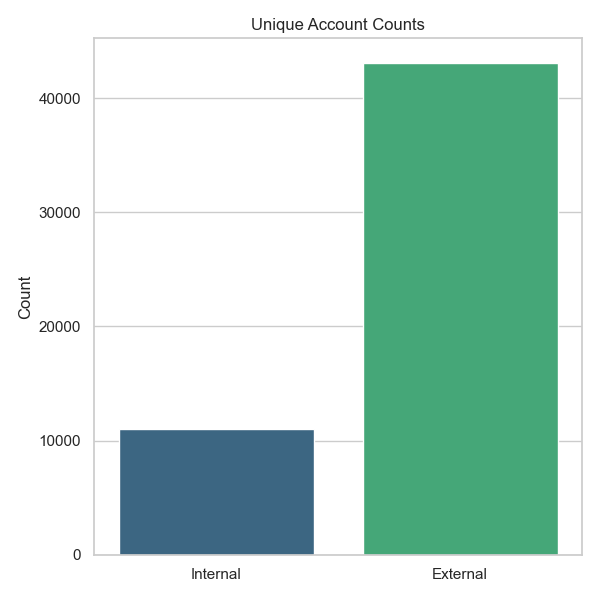
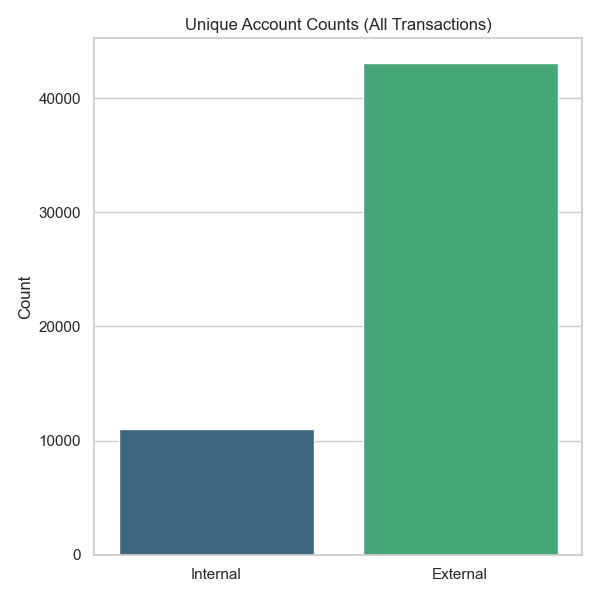
added kaggle task

Changed region(s): [[0.3, 0.03, 0.81, 0.06]]

diff --git a/plot.py b/plot.py
@@ -35,7 +35,8 @@ def plot_fraud_action_difference(transactions_df, fraud_df, output_path):
     fraud_df["AccountID"] = fraud_df["AccountID"].astype(str)
     merged_df = pd.merge(transactions_df, fraud_df, on="AccountID", how="inner")
     plt.figure(figsize=(10, 6))
-    sns.countplot(data=merged_df, x="Action", hue="Fraudster", order=merged_df["Action"].value_counts().index)
+    sns.countplot(data=merged_df, x="Action", hue="Fraudster", 
+                  order=merged_df["Action"].value_counts().index)
     plt.title("Transaction Action Counts by Fraudulent Status")
     plt.xlabel("Action")
     plt.ylabel("Count")
@@ -79,7 +80,7 @@ def plot_unique_accounts(transactions_df, output_path):
     external_count = transactions_df["External"].dropna().nunique()
     plt.figure(figsize=(6, 6))
     sns.barplot(x=["Internal", "External"], y=[internal_count, external_count], palette="viridis")
-    plt.title("Unique Account Counts")
+    plt.title("Unique Account Counts (All Transactions)")
     plt.ylabel("Count")
     plt.tight_layout()
     plt.savefig(output_path)
@@ -92,7 +93,7 @@ def plot_overdrafts(transactions_df, output_path):
     values = [counts.get(0, 0), counts.get(1, 0)]
     plt.figure(figsize=(6, 6))
     sns.barplot(x=labels, y=values, palette="magma")
-    plt.title("Overdraft Counts")
+    plt.title("Overdraft Counts (All Transactions)")
     plt.ylabel("Count")
     plt.tight_layout()
     plt.savefig(output_path)
@@ -129,6 +130,153 @@ def plot_transaction_traffic_per_account(transactions_df, fraud_df, output_path)
     plt.close()
     print(f"Saved transaction traffic plot to {output_path}")
 
+def plot_fraud_overdrafts(transactions_df, fraud_df, output_path):
+    """
+    Plot the overdraft counts among fraudsters.
+    """
+    transactions_df["AccountID"] = transactions_df["AccountID"].astype(str)
+    fraud_df["AccountID"] = fraud_df["AccountID"].astype(str)
+    merged = pd.merge(transactions_df, fraud_df, on="AccountID", how="inner")
+    fraudsters = merged[merged["Fraudster"] == 1]
+    counts = fraudsters["isUnauthorizedOverdraft"].value_counts()
+    labels = ["No Overdraft", "Overdraft"]
+    values = [counts.get(0, 0), counts.get(1, 0)]
+    plt.figure(figsize=(6, 6))
+    sns.barplot(x=labels, y=values, palette="coolwarm")
+    plt.title("Overdraft Occurrence Among Fraudsters")
+    plt.ylabel("Count")
+    plt.tight_layout()
+    plt.savefig(output_path)
+    plt.close()
+    print(f"Saved fraud overdrafts plot to {output_path}")
+
+def plot_unique_accounts_by_fraud(fraud_df, output_path):
+    """
+    Distinguish unique accounts into fraud vs non-fraud using fraud label data.
+    """
+    counts = fraud_df["Fraudster"].value_counts().sort_index()
+    labels = ["Non-fraud", "Fraud"]
+    values = [counts.get(0, 0), counts.get(1, 0)]
+    plt.figure(figsize=(6, 6))
+    sns.barplot(x=labels, y=values, palette="pastel")
+    plt.title("Unique Accounts by Fraud Status")
+    plt.ylabel("Count")
+    plt.tight_layout()
+    plt.savefig(output_path)
+    plt.close()
+    print(f"Saved unique accounts by fraud plot to {output_path}")
+
+def plot_transfer_hops(transactions_df, output_path):
+    """
+    For transfer transactions (Action=="TRANSFER"), group transfers into chains
+    where the recipient of one transfer (External) is the sender (AccountID) in the next.
+    The plot shows a scatter plot with the number of transfers (hops) in the chain versus the total amount transferred.
+    """
+    # Filter for transfers and sort by Hour (assuming this proxies the order)
+    transfers = transactions_df[transactions_df["Action"]=="TRANSFER"].copy()
+    transfers.sort_values("Hour", inplace=True)
+    
+    chains = []
+    current_chain = []
+    for _, row in transfers.iterrows():
+        if not current_chain:
+            current_chain.append(row)
+        else:
+            last = current_chain[-1]
+            # If this transfer's sender equals the previous transfer's recipient, extend the chain
+            if row["AccountID"] == last["External"]:
+                current_chain.append(row)
+            else:
+                chains.append(current_chain)
+                current_chain = [row]
+    if current_chain:
+        chains.append(current_chain)
+    
+    chain_lengths = []
+    chain_amounts = []
+    for chain in chains:
+        chain_lengths.append(len(chain))  # number of hops (transfers)
+        chain_amounts.append(sum(tx["Amount"] for _, tx in pd.DataFrame(chain).iterrows()))
+    
+    plt.figure(figsize=(8, 6))
+    sns.scatterplot(x=chain_lengths, y=chain_amounts)
+    plt.xlabel("Number of Hops (Transfers in Chain)")
+    plt.ylabel("Total Amount Transferred")
+    plt.title("Transfer Chains: Hops vs Total Amount Transferred")
+    plt.tight_layout()
+    plt.savefig(output_path)
+    plt.close()
+    print(f"Saved transfer hops plot to {output_path}")
+
+def plot_transfer_counts_per_account(transactions_df, fraud_df, output_path):
+    """
+    Count the number of transfer transactions per account (Action=="TRANSFER")
+    and plot a box plot of transfer counts grouped by fraud status.
+    """
+    # Filter transfer transactions
+    transfers_df = transactions_df[transactions_df["Action"]=="TRANSFER"].copy()
+    # Group transfers per AccountID
+    counts = transfers_df.groupby("AccountID").size().reset_index(name="TransferCount")
+    # Ensure AccountID is a string and merge with fraud labels
+    counts["AccountID"] = counts["AccountID"].astype(str)
+    fraud_df["AccountID"] = fraud_df["AccountID"].astype(str)
+    merged = pd.merge(counts, fraud_df, on="AccountID", how="inner")
+    
+    plt.figure(figsize=(8, 6))
+    sns.boxplot(data=merged, x="Fraudster", y="TransferCount", palette="Set3")
+    plt.xlabel("Fraudster (0 = Non-fraud, 1 = Fraud)")
+    plt.ylabel("Number of Transfers")
+    plt.title("Transfers per Account by Fraud Status")
+    plt.tight_layout()
+    plt.savefig(output_path)
+    plt.close()
+    print(f"Saved transfer counts per account plot to {output_path}")
+
+def plot_fraudsters_by_external_type(transactions_df, fraud_df, output_path):
+    """
+    Count fraudster transactions by external account type.
+    The external type is determined by the first character of the 'External' field:
+      - 'C' -> "customer"
+      - 'B' -> "bank"
+      - 'M' -> "merchant"
+      - otherwise "other"
+    """
+    def get_external_type(x):
+        if pd.isna(x):
+            return "unknown"
+        code = str(x)[0].lower()
+        if code == 'b':
+            return "bank"
+        elif code == 'm':
+            return "merchant"
+        elif code == 'c':
+            return "customer"
+        else:
+            return "other"
+    
+    # Ensure AccountID are strings and merge transactions with fraud labels
+    transactions_df["AccountID"] = transactions_df["AccountID"].astype(str)
+    fraud_df["AccountID"] = fraud_df["AccountID"].astype(str)
+    merged = pd.merge(transactions_df, fraud_df, on="AccountID", how="inner")
+    # Filter for fraudsters only
+    fraudsters = merged[merged["Fraudster"] == 1].copy()
+    # Create External_Type if not already present
+    if "External_Type" not in fraudsters.columns:
+        fraudsters["External_Type"] = fraudsters["External"].apply(get_external_type)
+    
+    counts = fraudsters["External_Type"].value_counts().reset_index()
+    counts.columns = ["External_Type", "Count"]
+    
+    plt.figure(figsize=(6, 6))
+    sns.barplot(data=counts, x="External_Type", y="Count", palette="pastel")
+    plt.title("Fraudster Count by External Account Type")
+    plt.xlabel("External Account Type")
+    plt.ylabel("Count")
+    plt.tight_layout()
+    plt.savefig(output_path)
+    plt.close()
+    print(f"Saved fraudsters by external type plot to {output_path}")
+
 @click.command()
 @click.option('--transactions_path', default='/Users/yale/Repositories/bbdc25/task/train_set/x_train.csv', help='Path to the transactions CSV file')
 @click.option('--fraud_path', default=None, help='Optional path to the fraud label CSV file')
@@ -142,14 +290,21 @@ def main(transactions_path, fraud_path, val_name):
     plot_hourly_average_amount(transactions_df, output_path=f"plot/{prefix}_hourly_average_amount.png")
     plot_unique_accounts(transactions_df, output_path=f"plot/{prefix}_unique_accounts.png")
     plot_overdrafts(transactions_df, output_path=f"plot/{prefix}_overdrafts.png")
+    plot_transfer_hops(transactions_df, output_path=f"plot/{prefix}_transfer_hops.png")
     
     # Check if fraud data is provided before generating fraud-based plots
+    # Inside your main() function, after the other fraud-based plots
     if fraud_path:
         fraud_df = pd.read_csv(fraud_path)
         plot_fraud_action_difference(transactions_df, fraud_df, output_path=f"plot/{prefix}_fraud_action_difference.png")
         plot_fraud_percentage(transactions_df, fraud_df, output_path=f"plot/{prefix}_fraud_percentage.png")
         plot_summed_money_per_account(transactions_df, fraud_df, output_path=f"plot/{prefix}_summed_money_per_account.png")
         plot_transaction_traffic_per_account(transactions_df, fraud_df, output_path=f"plot/{prefix}_transaction_traffic_per_account.png")
+        plot_fraud_overdrafts(transactions_df, fraud_df, output_path=f"plot/{prefix}_fraud_overdrafts.png")
+        plot_unique_accounts_by_fraud(fraud_df, output_path=f"plot/{prefix}_unique_accounts_by_fraud.png")
+        # New plots:
+        plot_transfer_counts_per_account(transactions_df, fraud_df, output_path=f"plot/{prefix}_transfer_counts_per_account.png")
+        plot_fraudsters_by_external_type(transactions_df, fraud_df, output_path=f"plot/{prefix}_fraudsters_by_external_type.png")
     else:
         print("No fraud_path provided: Skipping fraud-based plots.")
 

diff --git a/adjust_kaggle.py b/adjust_kaggle.py
@@ -1,0 +1,76 @@
+import click
+import pandas as pd
+import os
+
+@click.command()
+@click.option('--input_path', required=True, help='Path to the input Kaggle CSV file')
+@click.option('--output_path', required=True, help='Path to write the adjusted CSV file')
+@click.option('--fraud_output', required=False, help='Path to write the fraud label CSV file (AccountID,Fraudster).')
+def adjust_kaggle(input_path, output_path, fraud_output):
+    """
+    Transforms a Kaggle CSV file with columns:
+      step,type,amount,nameOrig,oldbalanceOrg,newbalanceOrig,nameDest,oldbalanceDest,newbalanceDest,isFraud,isFlaggedFraud
+    into a CSV with columns:
+      Hour,Action,Amount,AccountID,External,OldBalance,NewBalance,isUnauthorizedOverdraft,External_Type
+    
+    Additionally, if --fraud_output is provided, a second CSV is created with columns:
+      AccountID,Fraudster
+    where Fraudster is computed as the maximum value of isFraud per account (i.e. an account is marked fraud if any transaction is fraud).
+    
+    Transformation rules:
+      - Hour = step
+      - Action = "CASH_IN" if type is PAYMENT; else the original 'type'
+      - Amount = amount
+      - AccountID = nameOrig
+      - External = "" if type is PAYMENT; if TRANSFER, then nameDest
+      - OldBalance = oldbalanceOrg
+      - NewBalance = newbalanceOrig
+      - isUnauthorizedOverdraft = 0 (default)
+      - External_Type = computed from External (using first letter mapping: c -> customer, b -> bank, m -> merchant)
+    """
+    # Read the input CSV
+    df = pd.read_csv(input_path)
+    
+    # Prepare new DataFrame with desired columns.
+    new_df = pd.DataFrame()
+    
+    # Hour
+    new_df["Hour"] = df["step"]
+    
+    # Action: Map PAYMENT to CASH_IN, keep other types as their original value.
+    new_df["Action"] = df["type"].apply(lambda x: "CASH_IN" if x.upper() == "PAYMENT" else x.upper())
+    
+    # Amount remains the same.
+    new_df["Amount"] = df["amount"]
+    
+    # AccountID from nameOrig.
+    new_df["AccountID"] = df["nameOrig"]
+    
+    # External: if the transaction is PAYMENT, leave External blank; else use nameDest.
+    new_df["External"] = df.apply(lambda row: "" if row["type"].upper() == "PAYMENT" else row["nameDest"], axis=1)
+    
+    # OldBalance and NewBalance: use the original organization balances.
+    new_df["OldBalance"] = df["oldbalanceOrg"]
+    new_df["NewBalance"] = df["newbalanceOrig"]
+    
+    # isUnauthorizedOverdraft is set to 0.
+    new_df["isUnauthorizedOverdraft"] = 0
+    
+    # Ensure the output directory exists.
+    os.makedirs(os.path.dirname(output_path), exist_ok=True)
+    new_df.to_csv(output_path, index=False)
+    print(f"Adjusted file written to {output_path}")
+    
+    # If fraud_output is provided, create the fraud label file.
+    if fraud_output:
+        # Group by nameOrig and take the maximum of isFraud so that if any transaction is fraudulent, account is marked fraud.
+        fraud_df = df.groupby("nameOrig", as_index=False)["isFraud"].max()
+        fraud_df.rename(columns={"nameOrig": "AccountID", "isFraud": "Fraudster"}, inplace=True)
+        os.makedirs(os.path.dirname(fraud_output), exist_ok=True)
+        fraud_df.to_csv(fraud_output, index=False)
+        print(f"Fraud label file written to {fraud_output}")
+
+if __name__ == "__main__":
+    # Example usage:
+    # python adjust_kaggle.py --input_path task_orig/kaggle_set/kaggle_PS_20174392719_1491204439457_log.csv --output_path ./task/kaggle_set/x_kaggle.csv --output_path ./task_orig/kaggle_set/x_kaggle.csv --fraud_output ./task_orig/kaggle_set/y_kaggle.csv
+    adjust_kaggle()

diff --git a/preprocess.py b/preprocess.py
@@ -1,0 +1,38 @@
+import click
+import pandas as pd
+import os
+
+def get_external_type(x):
+    if pd.isna(x):
+        return None
+    code = str(x)[0].lower()
+    if code == 'b':
+        return "bank"
+    elif code == 'm':
+        return "merchant"
+    elif code == 'c':
+        return "customer"
+    else:
+        return "other"
+
+@click.command()
+@click.option('--input_path', required=True, help='Path to the input CSV file')
+@click.option('--output_path', required=True, help='Path to write the processed CSV file')
+def preprocess(input_path, output_path):
+    # Read the CSV file
+    df = pd.read_csv(input_path)
+    
+    # Check if the "External" column is present
+    if "External" in df.columns:
+        df["External_Type"] = df["External"].apply(get_external_type)
+        print("Added External_Type column.")
+    else:
+        print("The 'External' column was not found in the input file.")
+    
+    # Ensure the output directory exists
+    os.makedirs(os.path.dirname(output_path), exist_ok=True)
+    df.to_csv(output_path, index=False, compression='gzip')
+    print(f"Processed file written to {output_path}")
+
+if __name__ == "__main__":
+    preprocess()

diff --git a/README.md b/README.md
@@ -2,11 +2,20 @@
 
 
 ## Notes:
-- the data is generated -> can we re-verse engineer the data generation process?
-   -> or: what are the tytpical features considered for modelling this?
-   -> additionally: there must be some variable, even if it is whitheld that informs if a transaction is fraudulent or not -> what would i use if i where to generate such a dataset?
+- the data is generated 
+    -> can we re-verse engineer the data generation process?
+        -> or: what are the tytpical features considered for modelling this?
+        -> additionally: there must be some variable, even if it is whitheld that informs if a transaction is fraudulent or not -> what would i use if i where to generate such a dataset?
+    -> is this based on real world distributions or did they make them up themselves? if the latter, on what basis? is there open research to consider?
+
 - 15% fraudsters -> any model that we can use thresholding with should have an according threshold
     -> potentially the organisers used different percentages for train/val/test 
+
+- there are examples of this kind of task:
+    - https://www.kaggle.com/datasets/ealaxi/paysim1 -> this looks very similar from a datastand point -> i would assume the bbdc also used https://changefinancial.com/paysim/ to generate the data
+       -> there also are example models, we should try those first
+            -> https://www.kaggle.com/code/salmarashwan/building-a-fraud-detection-model-paysim-case-study this has really good results just with a rf, not sure if this applies to this dataset as well, but we'll see. double check cross_validation and features used
+
 
 
 ## Understandings:
